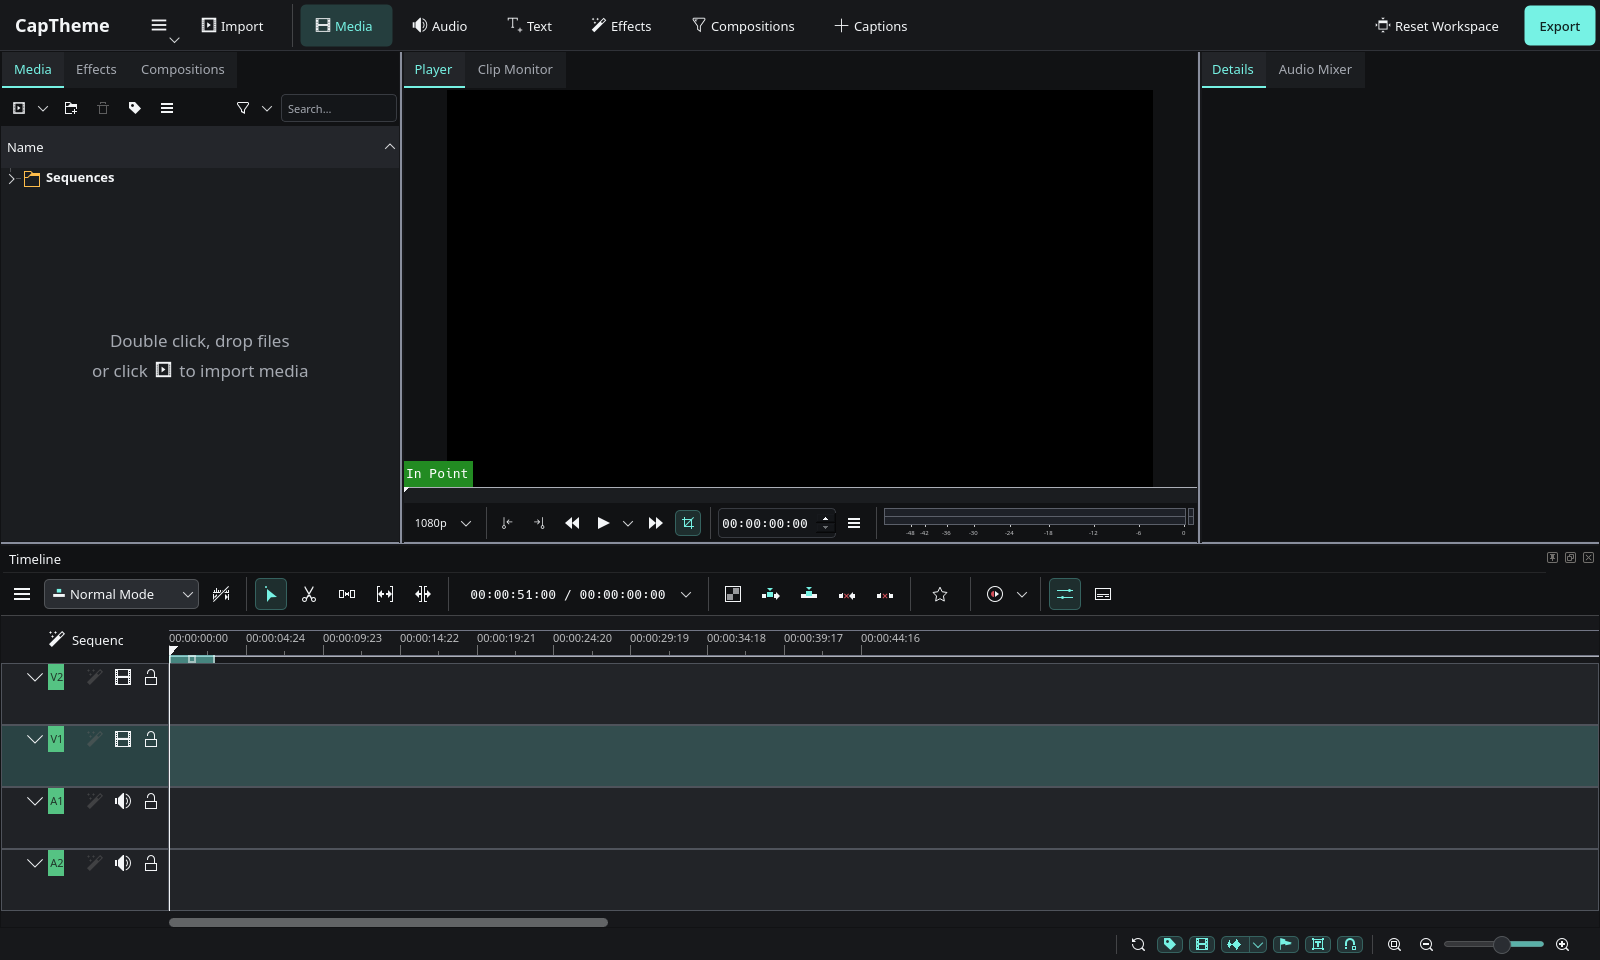
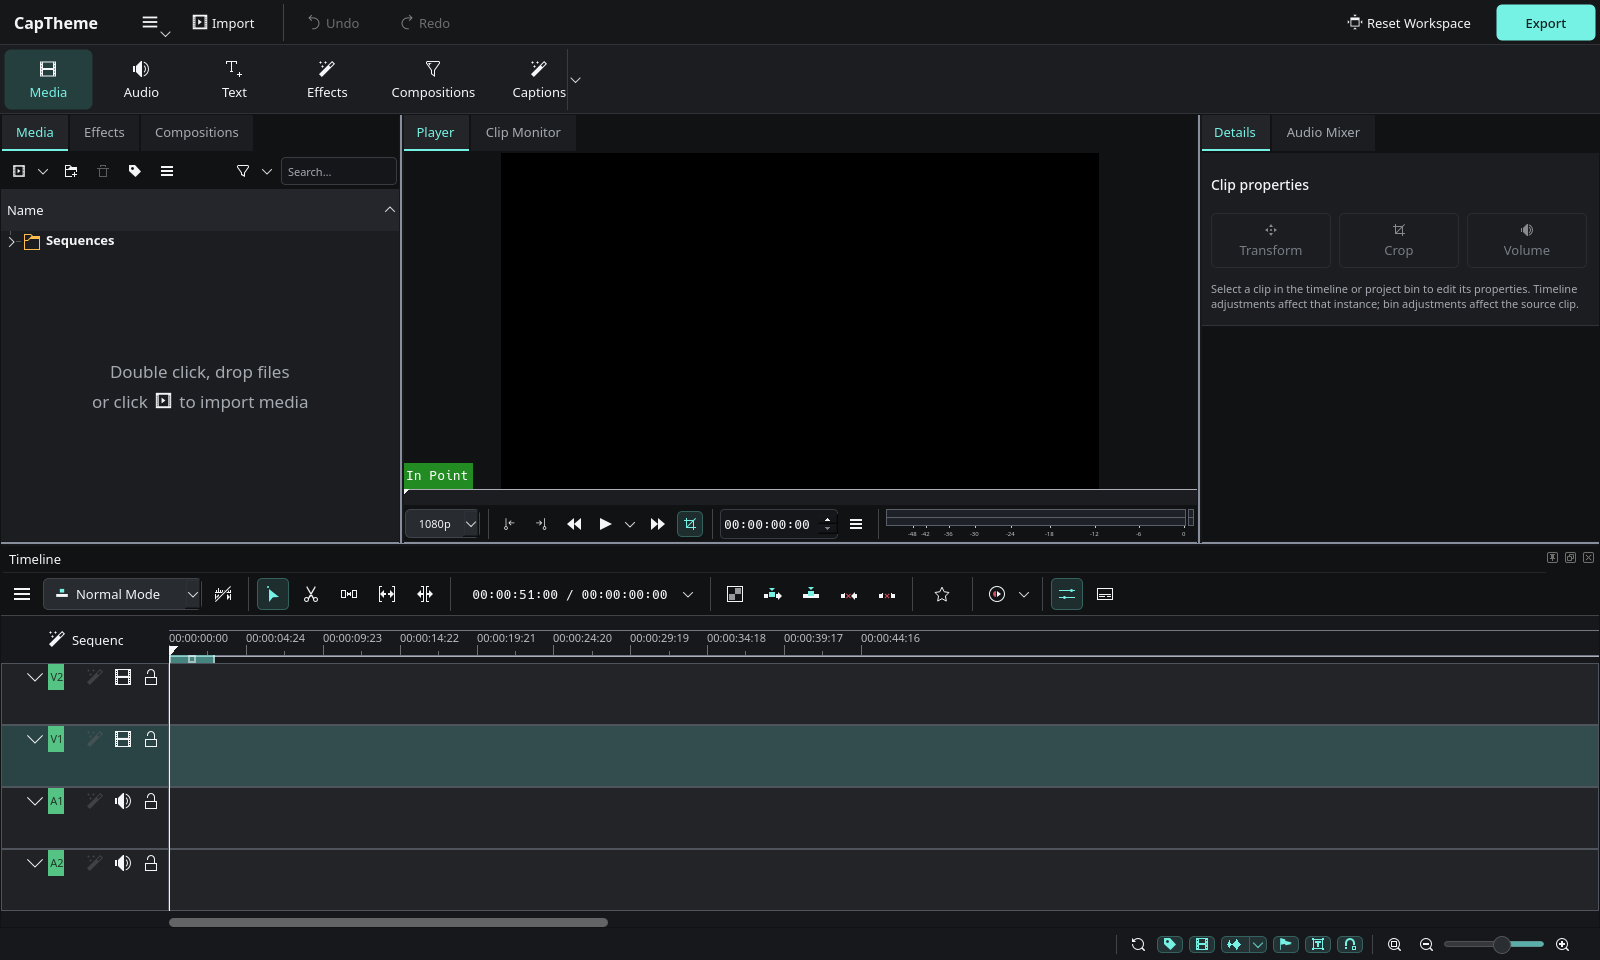
Polish editing interface and integrate automatic captions

diff --git a/kdenlive/src/captheme.cpp b/kdenlive/src/captheme.cpp
@@ -106,24 +106,35 @@ void MainWindow::setupCapTheme()
 
     // Proxies follow the real QAction's enabled state and invoke the same editing
     // command, without changing its name, shortcuts or labels elsewhere.
-    auto addCommand = [this, header](const QString &id, const QString &label, const QString &objectName = QString()) {
+    auto addCommand = [this](QToolBar *bar, const QString &id, const QString &label, const QString &objectName = QString()) {
         QAction *command = actionCollection()->action(id);
         if (!command) {
             return;
         }
-        auto *button = new QToolButton(header);
+        auto *button = new QToolButton(bar);
         button->setObjectName(objectName);
         button->setDefaultAction(command);
         button->setToolButtonStyle(objectName == QStringLiteral("capthemeExport") ? Qt::ToolButtonTextOnly : Qt::ToolButtonTextBesideIcon);
         button->setText(label);
         connect(command, &QAction::changed, button, [button, label]() { button->setText(label); });
-        header->addWidget(button);
+        bar->addWidget(button);
     };
-    addCommand(QStringLiteral("add_clip"), i18n("Import"));
+    addCommand(header, QStringLiteral("add_clip"), i18n("Import"));
     header->addSeparator();
+    addCommand(header, QStringLiteral("edit_undo"), i18n("Undo"));
+    addCommand(header, QStringLiteral("edit_redo"), i18n("Redo"));
 
-    auto addPanel = [this, header](const QString &label, const QString &icon, KDDockWidgets::QtWidgets::DockWidget *dock) {
-        QAction *action = header->addAction(QIcon::fromTheme(icon), label);
+    auto *navigation = new QToolBar(i18n("Editing tools"), this);
+    navigation->setObjectName(QStringLiteral("capthemeNavigation"));
+    navigation->setMovable(false);
+    navigation->setFloatable(false);
+    navigation->setIconSize(QSize(22, 22));
+    navigation->setToolButtonStyle(Qt::ToolButtonTextUnderIcon);
+    addToolBarBreak(Qt::TopToolBarArea);
+    addToolBar(Qt::TopToolBarArea, navigation);
+
+    auto addPanel = [this, navigation](const QString &label, const QString &icon, KDDockWidgets::QtWidgets::DockWidget *dock) {
+        QAction *action = navigation->addAction(QIcon::fromTheme(icon), label);
         action->setCheckable(true);
         action->setChecked(dock->asDockWidgetController()->isCurrentTab());
         connect(action, &QAction::triggered, this, [dock]() {
@@ -139,10 +150,37 @@ void MainWindow::setupCapTheme()
     };
     addPanel(i18n("Media"), QStringLiteral("folder-videos"), m_projectBinDock);
     addPanel(i18n("Audio"), QStringLiteral("audio-volume-high"), m_mixerDock);
-    addCommand(QStringLiteral("add_text_clip"), i18n("Text"));
+    addCommand(navigation, QStringLiteral("add_text_clip"), i18n("Text"));
     addPanel(i18n("Effects"), QStringLiteral("tools-wizard"), m_effectListDock);
     addPanel(i18n("Compositions"), QStringLiteral("view-filter"), m_compositionListDock);
-    addCommand(QStringLiteral("add_subtitle"), i18n("Captions"));
+    // Reuse the native recognition action: it creates the subtitle track and
+    // opens SpeechDialog with the user's engine, models and language settings.
+    if (auto *recognition = actionCollection()->action(QStringLiteral("audio_recognition"))) {
+        auto *captions = new QToolButton(navigation);
+        captions->setObjectName(QStringLiteral("capthemeCaptions"));
+        captions->setDefaultAction(recognition);
+        captions->setText(i18n("Captions"));
+        captions->setToolTip(i18n("Generate automatic captions from timeline audio"));
+        captions->setPopupMode(QToolButton::MenuButtonPopup);
+        auto *menu = new QMenu(captions);
+        menu->addSection(i18n("Automatic captions"));
+        menu->addAction(recognition);
+        menu->addSeparator();
+        for (const auto &id : {"add_subtitle", "import_subtitle", "export_subtitle", "manage_subtitle"}) {
+            if (auto *command = actionCollection()->action(QString::fromLatin1(id))) {
+                menu->addAction(command);
+            }
+        }
+        captions->setMenu(menu);
+        connect(recognition, &QAction::changed, captions, [captions]() {
+            captions->setText(i18n("Captions"));
+            captions->setToolTip(i18n("Generate automatic captions from timeline audio"));
+        });
+        navigation->addWidget(captions);
+    }
+    for (auto *button : navigation->findChildren<QToolButton *>()) {
+        button->setToolButtonStyle(Qt::ToolButtonTextUnderIcon);
+    }
 
     auto *spacer = new QWidget(header);
     spacer->setSizePolicy(QSizePolicy::Expanding, QSizePolicy::Preferred);
@@ -150,7 +188,7 @@ void MainWindow::setupCapTheme()
     auto *layout = header->addAction(QIcon::fromTheme(QStringLiteral("view-restore")), i18n("Reset Workspace"));
     layout->setToolTip(i18n("Restore the CapTheme panel arrangement"));
     connect(layout, &QAction::triggered, this, &MainWindow::resetCapThemeLayout);
-    addCommand(QStringLiteral("project_render"), i18n("Export"), QStringLiteral("capthemeExport"));
+    addCommand(header, QStringLiteral("project_render"), i18n("Export"), QStringLiteral("capthemeExport"));
 
     KConfigGroup config(KSharedConfig::openConfig(), QStringLiteral("CapTheme"));
     if (!config.readEntry("WorkspaceInitialized", false)) {

diff --git a/tests/ui-smoke.cpp b/tests/ui-smoke.cpp
@@ -3,6 +3,8 @@
 #include <QApplication>
 #include <QAction>
 #include <QFile>
+#include <QDialog>
+#include <QMenu>
 #include <QMainWindow>
 #include <QMenuBar>
 #include <QScreen>
@@ -65,9 +67,42 @@ static void checkInterface()
         require(!exportButton->isEnabled(), "export follows disabled command state");
         command->setEnabled(enabled);
 
+        auto *navigation = qobject_cast<QToolBar *>(widget(QStringLiteral("capthemeNavigation")));
+        require(navigation && navigation->isVisible(), "editing categories have a separate navigation strip");
+        auto *captions = qobject_cast<QToolButton *>(widget(QStringLiteral("capthemeCaptions")));
+        require(captions && captions->defaultAction(), "captions uses the native recognition action");
+        require(captions->defaultAction()->objectName() == QStringLiteral("audio_recognition"), "captions invokes automatic subtitling");
+        require(captions->menu() && captions->menu()->actions().contains(captions->defaultAction()), "automatic captions is also available in the menu");
+        for (const auto &id : {"add_subtitle", "import_subtitle", "export_subtitle", "manage_subtitle"}) {
+            bool found = false;
+            for (auto *action : captions->menu()->actions()) found |= action->objectName() == QString::fromLatin1(id);
+            require(found, "native subtitle editing command remains available");
+        }
+        auto *recognition = captions->defaultAction();
+        const bool recognitionEnabled = recognition->isEnabled();
+        recognition->setEnabled(false);
+        require(!captions->isEnabled(), "captions follows the native command availability");
+        recognition->setEnabled(recognitionEnabled);
+
+        if (qEnvironmentVariableIsSet("CAPTHEME_TEST_CAPTIONS")) {
+            require(recognitionEnabled, "recognition is available for the current project");
+            QTimer::singleShot(4000, window, []() {
+                auto *dialog = qobject_cast<QDialog *>(QApplication::activeModalWidget());
+                require(dialog && dialog->windowTitle() == QStringLiteral("Automatic Subtitling"), "captions opens the real automatic subtitling dialog");
+                require(dialog->findChild<QWidget *>(QStringLiteral("speech_model")), "native speech model selection is present");
+                require(dialog->findChild<QWidget *>(QStringLiteral("timeline_full")), "native transcription scope selection is present");
+                dialog->reject();
+                // The native action creates a subtitle track. Exit this isolated
+                // test without a save prompt; never touch a user project.
+                QTimer::singleShot(0, qApp, []() { std::_Exit(0); });
+            });
+            captions->click();
+            return;
+        }
+
         QAction *effects = nullptr;
         QAction *reset = nullptr;
-        for (QAction *action : header->actions()) {
+        for (QAction *action : header->actions() + navigation->actions()) {
             if (action->text() == QStringLiteral("Effects")) effects = action;
             if (action->text() == QStringLiteral("Reset Workspace")) reset = action;
         }

diff --git a/kdenlive/src/assets/assetpanel.cpp b/kdenlive/src/assets/assetpanel.cpp
@@ -213,8 +213,8 @@ void AssetPanel::setupCapThemeInspector()
     m_capThemeInspector->setObjectName(QStringLiteral("capthemeInspector"));
     m_capThemeInspector->setSizePolicy(QSizePolicy::Preferred, QSizePolicy::Maximum);
     auto *layout = new QVBoxLayout(m_capThemeInspector);
-    layout->setContentsMargins(12, 12, 12, 10);
-    layout->setSpacing(8);
+    layout->setContentsMargins(10, 8, 10, 8);
+    layout->setSpacing(6);
     auto *title = new QLabel(i18n("Clip properties"), m_capThemeInspector);
     title->setObjectName(QStringLiteral("capthemeInspectorTitle"));
     layout->addWidget(title);
@@ -224,7 +224,7 @@ void AssetPanel::setupCapThemeInspector()
         button->setObjectName(name);
         button->setText(text);
         button->setIcon(QIcon::fromTheme(icon));
-        button->setToolButtonStyle(Qt::ToolButtonTextUnderIcon);
+        button->setToolButtonStyle(Qt::ToolButtonTextBesideIcon);
         button->setSizePolicy(QSizePolicy::Expanding, QSizePolicy::Preferred);
         buttons->addWidget(button);
         connect(button, &QToolButton::clicked, this, [this, effectId]() {
@@ -261,8 +261,7 @@ void AssetPanel::updateCapThemeInspector(bool video, bool audio)
     m_capThemeTransform->setEnabled(video && EffectsRepository::get()->exists(QStringLiteral("qtblend")));
     m_capThemeCrop->setEnabled(video && EffectsRepository::get()->exists(QStringLiteral("qtcrop")));
     m_capThemeVolume->setEnabled(audio && EffectsRepository::get()->exists(QStringLiteral("volume")));
-    m_capThemeHint->setText(video || audio ? i18n("Open a section to adjust this clip. Use the diamond in the effect controls to add keyframes at the "
-                                                  "playhead; the arrows navigate between them.")
+    m_capThemeHint->setText(video || audio ? i18n("Adjust this clip below. Use the diamond to add keyframes.")
                                            : i18n("Select a clip in the timeline or project bin to edit its properties. Timeline adjustments affect that "
                                                   "instance; bin adjustments affect the source clip."));
 }

diff --git a/README.md b/README.md
@@ -69,14 +69,15 @@ Para atualizar essa cópia posteriormente, feche o programa e execute
 preserva a primeira versão e não inclui o novo painel.
 
 - Tema grafite com seleção verde-água, abas e campos compactos.
-- Barra com Importar, Mídia, Áudio, Texto, Efeitos, Composições, Legendas e Exportar.
+- Barra superior com Importar, Desfazer/Refazer e Exportar; categorias de edição em uma faixa própria com ícones.
+- Campos, menus, listas, abas e barras de rolagem com acabamento escuro consistente.
 - Mídia à esquerda, monitor ao centro, propriedades à direita, timeline embaixo.
 - Os botões usam os comandos reais do Kdenlive, inclusive seus estados habilitados.
 - O layout é criado no primeiro uso. Alterações posteriores são preservadas.
 - **Reset Workspace** restaura a organização proposta; os menus completos ficam no botão de menu.
 
-“Áudio” abre o mixer; “Texto” cria um título; “Legendas” adiciona uma legenda à
-timeline. “Composições” abre as composições do Kdenlive. Essas funções não são
+“Áudio” abre o mixer; “Texto” cria um título; “Legendas” abre a geração automática
+a partir do áudio da timeline. “Composições” abre as composições do Kdenlive. Essas funções não são
 catálogos online do CapCut. O projeto não inclui recursos, serviços ou marcas do CapCut.
 
 Para abrir o fork com a interface original e configurações separadas:
@@ -84,6 +85,19 @@ Para abrir o fork com a interface original e configurações separadas:
 ```sh
 CAPTHEME_CLASSIC=1 ./run.sh --config classicrc
 ```
+
+### Legendas automáticas
+
+1. Coloque o vídeo ou áudio na timeline.
+2. Clique em **Captions / Legendas** para abrir **Automatic Subtitling**, a ferramenta nativa do Kdenlive.
+3. Se necessário, use **Configure** no diálogo para configurar o reconhecimento de fala e instalar as dependências e um modelo Whisper ou Vosk.
+4. Selecione o modelo, o idioma quando disponível e o trecho a analisar (timeline, zona, faixa ou clipes selecionados). Clique em **Process**.
+5. Revise o resultado na faixa de legendas. A seta ao lado de **Captions** também oferece criação manual, importação, exportação e gerenciamento de legendas.
+
+Os motores e modelos seguem a configuração do Kdenlive dentro do perfil isolado
+do CapTheme. Não estão incluídos na distribuição; sua instalação pode exigir
+internet e espaço em disco. O teste gráfico verifica a abertura do diálogo real,
+mas não baixa modelos nem valida a qualidade da transcrição.
 
 ## Código
 
@@ -136,7 +150,8 @@ exclusivos dele. As mudanças do fork seguem a licença GPL do Kdenlive.
 Compilado e instalado localmente com GCC 16, Qt 6.11.2, KDE Frameworks 6.30 e MLT 7.40.
 O teste gráfico passou na primeira abertura e após reiniciar: posição e visibilidade
 dos painéis, paleta, menu compacto, comando de exportação, navegação para efeitos,
-restauração repetida do workspace e fechamento normal. A captura acima foi feita
+restauração repetida do workspace e fechamento normal. Uma terceira abertura
+verifica o diálogo nativo de legendas automáticas e seus seletores de modelo e trecho. A captura acima foi feita
 no executável real em uma tela virtual de 1920×1080, com janela de 1600×960.
 
 Para repetir (requer `xorg-server-xvfb`):

diff --git a/CHANGELOG.md b/CHANGELOG.md
@@ -2,6 +2,11 @@
 
 ## Em desenvolvimento
 
+- Barra de projeto e navegação por categorias separadas, com ícones acima dos rótulos.
+- Polimento de campos, botões, abas, listas e barras de rolagem em superfícies escuras.
+- Legendas abre a ferramenta nativa de transcrição automática (Whisper/Vosk); menu preserva edição manual, importação, exportação e gerenciamento.
+- Teste gráfico da abertura do diálogo de legendas e disponibilidade das ações nativas.
+
 - Painel Details com atalhos para transformação, recorte e volume do clipe selecionado.
 - Acesso direto aos controles nativos de posição, escala, rotação, opacidade e keyframes.
 - Reabertura do efeito existente sem duplicar efeitos ou substituir parâmetros.
